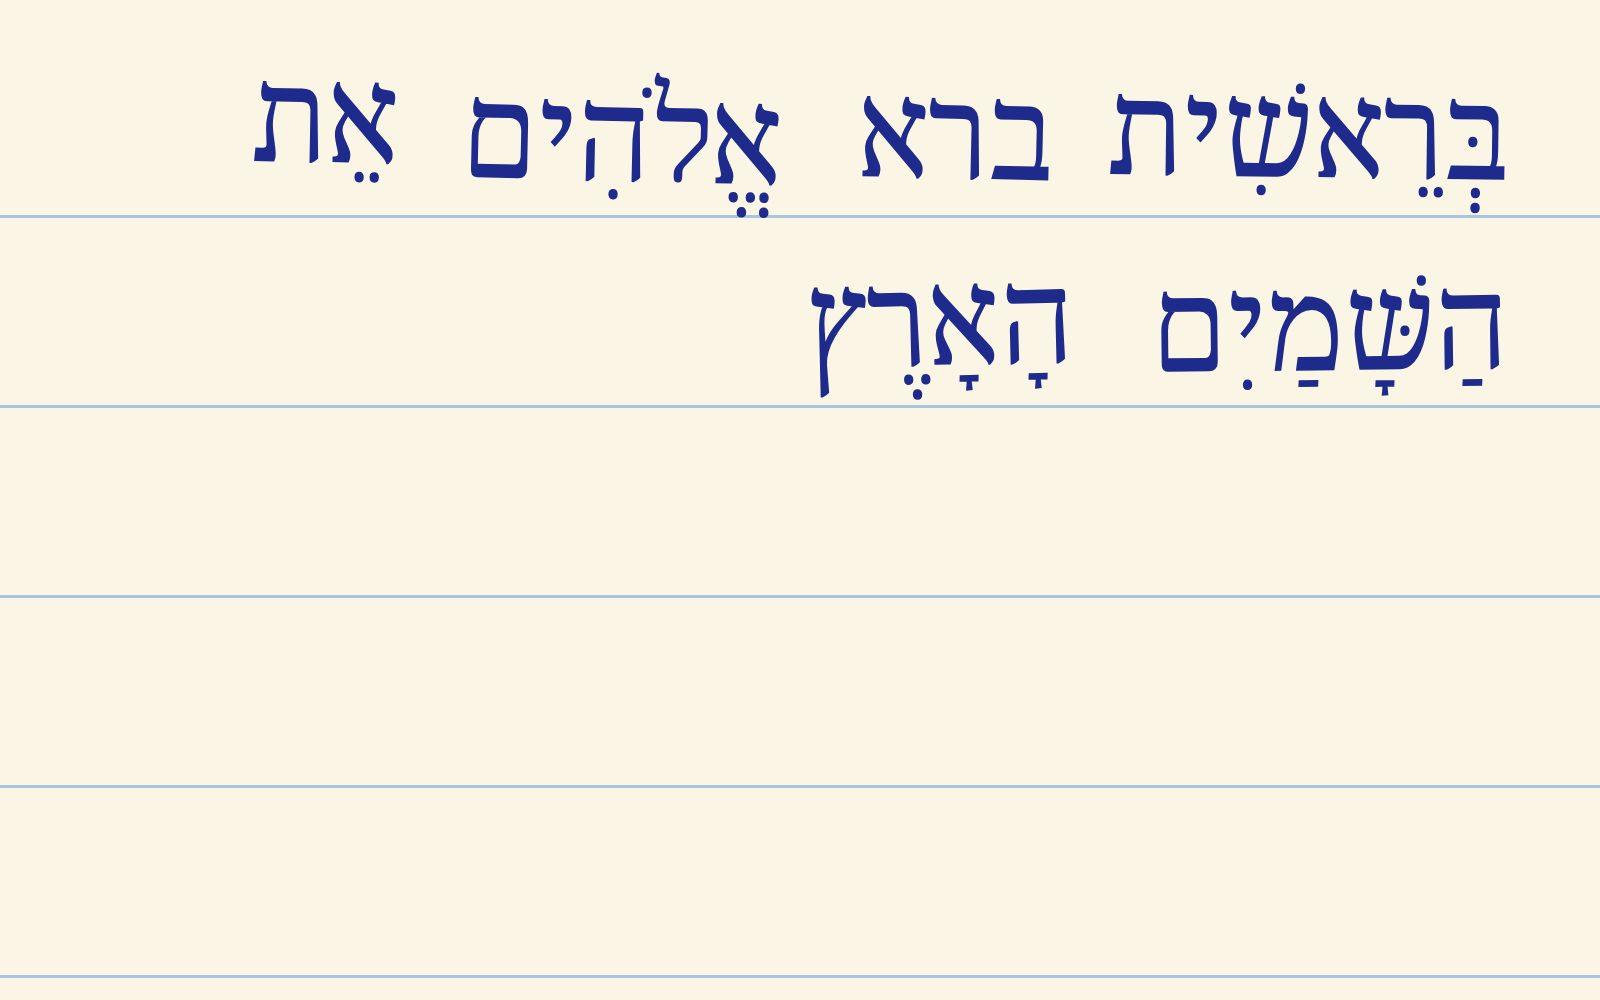
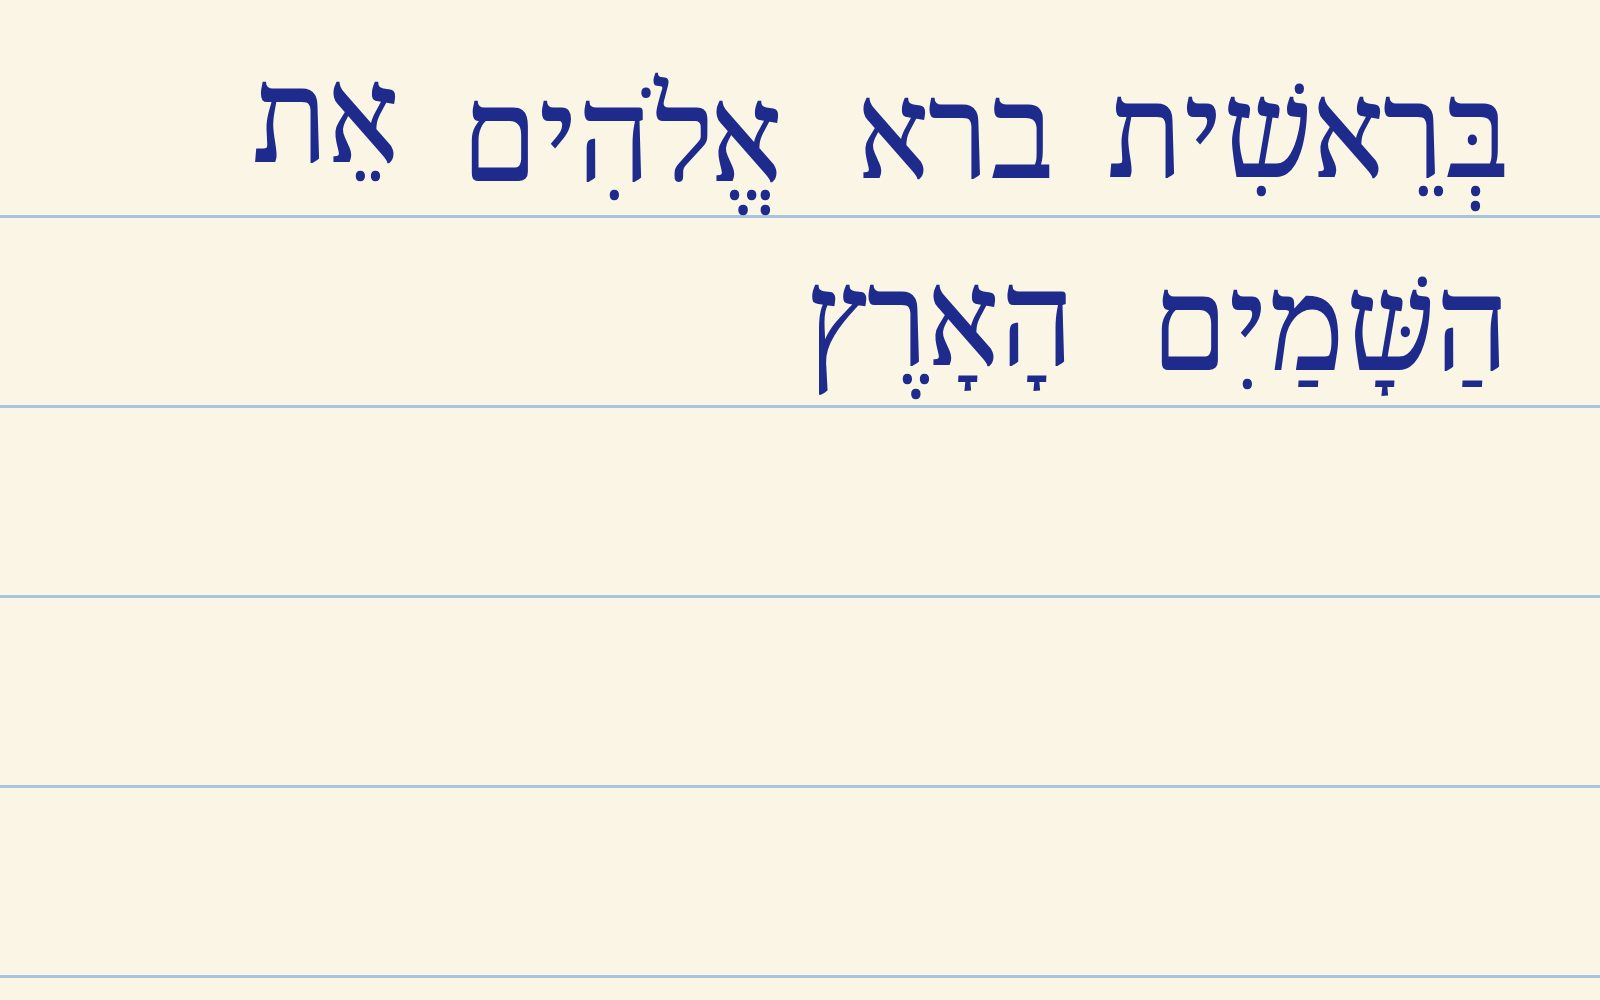
Copywork: Hebrew rule reads letters first and names no worked word; Hebrew pages are not tilted

diff --git a/tests/unit/copywork-instructions.test.ts b/tests/unit/copywork-instructions.test.ts
@@ -1,7 +1,8 @@
 // mw-5r3p30.982: copywork's Hebrew rule marked a right בְּרֵאשִׁית (and, far more often, a right הַשָּׁמַיִם) wrong about one run in fifteen, the model
 // calling the dagesh "missing" from the bet or the shin: mw-5r3p30.959 worked the shin's two dots, so the model read the shin dot for the dagesh and the
 // dagesh for nothing. The Hebrew section now says where each mark of a pointed letter sits (the dagesh inside the body, the shin dot above, the vowel below)
-// and works the two words that flaked, each mark found one by one; the live proof is `mw grist eval lampas copywork --example hbo-perfect-genesis-1-1`.
+// and worked the two words that flaked; mw-5r3p30.989 took the worked words out again (they primed a false fault) and added the letters-first count; the live proof
+// is `mw grist eval lampas copywork --example hbo-perfect-genesis-1-1`, which holds words.4 (הַשָּׁמַיִם) right.
 import { describe, expect, it } from 'vitest';
 import { instructionsOf } from '../../scripts/grind-parts';
 import '../support/grinds-in-graph';
@@ -16,13 +17,24 @@ describe("copywork's Hebrew rule says where each mark of a letter sits", () => {
     expect(hebrew).toMatch(/shin dot[^.]*above/i);
   });
 
-  it('works בְּרֵאשִׁית: the bet has a dagesh and a sheva', () => {
-    expect(hebrew).toMatch(/Take בְּרֵאשִׁית\.[^.]*dagesh[^.]*sheva/);
+  // mw-5r3p30.989: naming the two words (בְּרֵאשִׁית, הַשָּׁמַיִם) and their marks made the model look for a fault there and invent one (the dagesh of
+  // the shin 'missing', the yod 'missing' on a page that has them: 7 of 12 runs on the perfect page), so the rule is general: letters first, then marks.
+  it('names no word of the examples: a worked word led the model to find a fault in it', () => {
+    expect(hebrew).not.toMatch(/Take בְּרֵאשִׁית|Take הַשָּׁמַיִם/);
   });
 
-  it('works הַשָּׁמַיִם: the shin has the dot above and a dagesh inside, and the yod is there', () => {
-    expect(hebrew).toMatch(/Take הַשָּׁמַיִם\.[^.]*shin[^.]*dagesh/);
-    expect(hebrew).toMatch(/Take הַשָּׁמַיִם\.[^.]*yod/i);
+  it('has him count the consonants first, a yod or a vav being small letters', () => {
+    expect(hebrew).toMatch(/count the model word's consonants/);
+    expect(hebrew).toMatch(/yod[^.]*vav[^.]*is a letter, though small/);
+  });
+
+  it('says a point sits under its letter, so a small letter above a seen point is looked for before it is called missing', () => {
+    expect(hebrew).toMatch(/vowel point sits under its letter[^.]*small letter above it/);
+  });
+
+  it('calls a point missing only on bare paper, and a small point he cannot settle is not a fault', () => {
+    expect(hebrew).toMatch(/Mark a point missing only when you looked at its place and\s+can see bare paper there/);
+    expect(hebrew).toMatch(/cannot settle either way is not a fault you can name: the word is `right`/);
   });
 
   it('still marks a point wrong when the place was looked at and it is truly not there', () => {

diff --git a/scripts/render-copywork-examples.ts b/scripts/render-copywork-examples.ts
@@ -4,7 +4,7 @@
 //   npx tsx scripts/render-copywork-examples.ts --check  # draw them to a temp dir and fail if one differs from the committed page
 //
 // A page is the example's request.words written out by hand-ish: the repo's own fonts (Literata, Gentium Plus, Noto Serif Hebrew) on
-// ruled paper (the rule runs below the vowel points, not through them), each word nudged off the line by a fixed pseudo-random amount, drawn at the width the phone sends (TALK_MAX_EDGE, 1600 px
+// ruled paper (the rule runs below the vowel points, not through them), each word nudged off the line by a fixed pseudo-random amount (and tilted, in Latin and Greek, by up to 1.5 degrees; a Hebrew page is not tilted: it was read wrong less often so, mw-5r3p30.989), drawn at the width the phone sends (TALK_MAX_EDGE, 1600 px
 // on the long edge) with type big enough that a vowel point is a blob of 8 px or more, as it is when a page is photographed to fill the
 // frame. A page that holds a mistake says which in PAGES below (the words are replaced or left out); the example's `expect` holds the rest.
 // Running it twice gives the same bytes.
@@ -73,11 +73,12 @@ export function pageHtml(name: string, words: string[], spec: PageSpec): string 
   const font = FONTS[spec.language];
   const rtl = spec.language === 'hbo';
   const rand = generator(name);
+  const tilt = rtl ? 0 : 1;
   const faces = font.files
     .map((f) => `@font-face{font-family:'${font.family}';font-weight:${font.weight};src:url(data:font/woff2;base64,${readFileSync(join(FONT_DIR, f)).toString('base64')}) format('woff2');}`)
     .join('\n');
   const spans = words
-    .map((w) => `<span style="transform:translateY(${(rand() * 20 - 10).toFixed(1)}px) rotate(${(rand() * 3 - 1.5).toFixed(2)}deg);margin-inline-end:${(52 + rand() * 40).toFixed(0)}px">${w}</span>`)
+    .map((w) => `<span style="transform:translateY(${(rand() * 20 - 10).toFixed(1)}px) rotate(${((rand() * 3 - 1.5) * tilt).toFixed(2)}deg);margin-inline-end:${(52 + rand() * 40).toFixed(0)}px">${w}</span>`)
     .join('');
   return `<!doctype html><html lang="${spec.language === 'hbo' ? 'he' : spec.language === 'grc' ? 'el' : 'en'}" dir="${rtl ? 'rtl' : 'ltr'}"><meta charset="utf-8"><style>
 ${faces}

diff --git a/tests/unit/copywork-example-pages.test.ts b/tests/unit/copywork-example-pages.test.ts
@@ -50,6 +50,7 @@ describe('the lines dropped for a small point are back', () => {
   const holds = (name: string, path: string, value: unknown) => expect(read(name).expect[path], `${name} ${path}`).toEqual(value);
 
   it('hbo-dictation-sounds-alike-genesis-1-1 holds הַשָּׁמַיִם right (725acbae)', () => holds('hbo-dictation-sounds-alike-genesis-1-1', 'words.4.mark', { equals: 'right' }));
+  it('hbo-perfect-genesis-1-1 holds הַשָּׁמַיִם right (mw-5r3p30.989)', () => holds('hbo-perfect-genesis-1-1', 'words.4.mark', { equals: 'right' }));
   it('hbo-dictation-perfect-genesis-1-3 holds וַיֹּאמֶר right (4f2f20db)', () => holds('hbo-dictation-perfect-genesis-1-3', 'words.0.mark', { equals: 'right' }));
   it('hbo-dictation-perfect-genesis-1-3 holds word 0 sounds_alike absent (4e2be1f4)', () => holds('hbo-dictation-perfect-genesis-1-3', 'words.0.sounds_alike', { present: false }));
   it('grc-dictation-sounds-alike-john-1-5 holds τῇ right (0924d166)', () => holds('grc-dictation-sounds-alike-john-1-5', 'words.4.mark', { equals: 'right' }));

diff --git a/grinds/copywork.instructions.md b/grinds/copywork.instructions.md
@@ -77,14 +77,12 @@ point is below the letter or beside it. Count the marks the model gives each let
 dot inside, then the dot above, then the points below. Finding one mark does not find another: the shin dot above and the dagesh inside are
 two dots in two places, and the vowel below is a third.
 
-Take בְּרֵאשִׁית. The bet has a dagesh, a dot inside its body, and a sheva, two dots one above the other below it; the resh has a tsere, two
-dots side by side below it; the shin has the shin dot above its right arm and a hiriq, one small dot below it. Take הַשָּׁמַיִם. The he has a patah, a short dash, below it; the shin has the shin dot above its right arm, a dagesh inside its body and a
-qamets below; the mem has a patah below it; the yod, a small tick, has a hiriq, one dot, below it; then comes the final mem.
-A page that has each of these has the word `right`: do not call the dagesh missing because the
-shin dot or the vowel is the more visible, do not read one dot for another, and do not call a yod missing when it stands in its place.
-A mark you did not see at first glance is, on a clean page, more often overlooked than absent: the small ones most often overlooked are the hiriq
-under the shin of בְּרֵאשִׁית, the dagesh in its bet and the dagesh in the shin of הַשָּׁמַיִם. Before you write that a point is missing, look at its place once more
-and say to yourself what stands there. When you looked at the place and the mark is there, mark the word `right`; when it is not there, the word is `wrong` as above.
+Read a Hebrew word letter by letter first, as the consonants only: count the model word's consonants (a final form is one) and find that many on the page,
+in order; a yod `י` or a vav `ו` is a letter, though small (a short tick at the top of the line), and stands between its neighbours. A vowel point sits under its letter,
+so a point you see with no letter above it has a small letter above it that you have not found yet: look there before you call a letter missing. Then take the marks of each letter in turn.
+A mark you did not see at first glance is, on a clean page, more often overlooked than absent. Mark a point missing only when you looked at its place and
+can see bare paper there, and say in `problem` what is bare. A small point on an otherwise readable page that you cannot settle either way is not a fault you can name: the word is `right`.
+When the point is there, mark the word `right`; when it is not there, the word is `wrong` as above.
 
 ## Dictation
 
